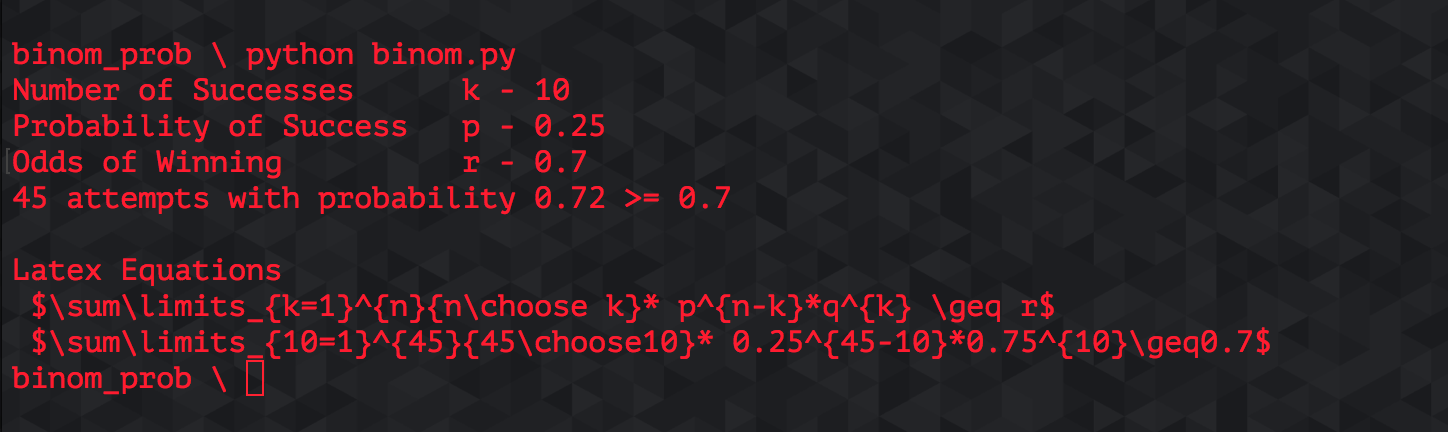
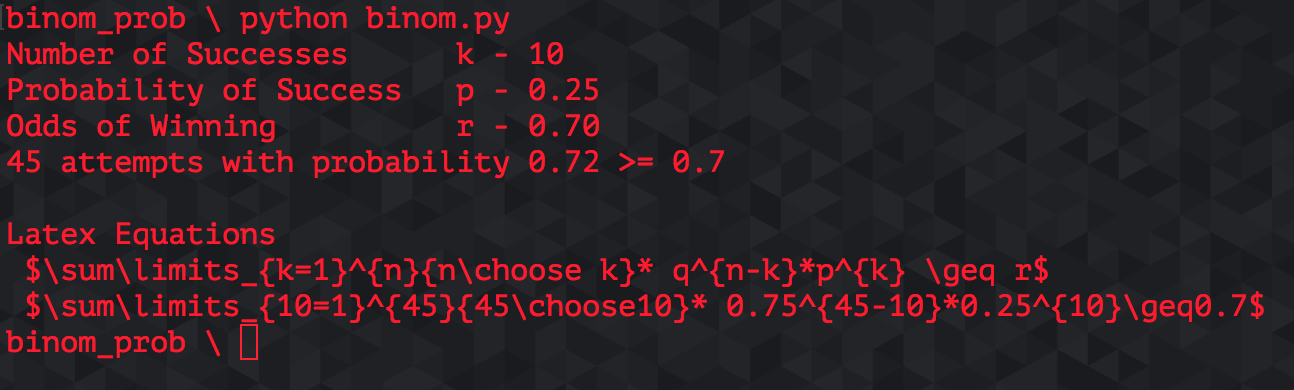
Fixed formatting

Changed region(s): [[0.0, 0.0, 0.5564, 0.4923], [0.0, 0.5846, 0.9892, 0.9231]]

diff --git a/binom.py b/binom.py
@@ -39,6 +39,6 @@ def main():
     q = 1-p
     print(str(n) + " attempts with probability " + str(round(result,4)) + " >= " + str(r))
     print("\nLatex Equations")
-    print(" $\sum\limits_{k=1}^{n}{n\choose k}* p^{n-k}*q^{k} \geq r$")
-    print(" $\sum\limits_{"+str(k)+"=1}^{"+str(n)+"}{"+str(n)+"\choose"+str(k)+"}* "+str(p)+"^{"+str(n)+"-"+ str(k)+"}*" + str(q)+"^{"+str(k) +"}\geq" + str(r)+"$")
+    print(" $\sum\limits_{k=1}^{n}{n\choose k}* q^{n-k}*p^{k} \geq r$")
+    print(" $\sum\limits_{"+str(k)+"=1}^{"+str(n)+"}{"+str(n)+"\choose"+str(k)+"}* "+str(q)+"^{"+str(n)+"-"+ str(k)+"}*" + str(p)+"^{"+str(k) +"}\geq" + str(r)+"$")
 main()
